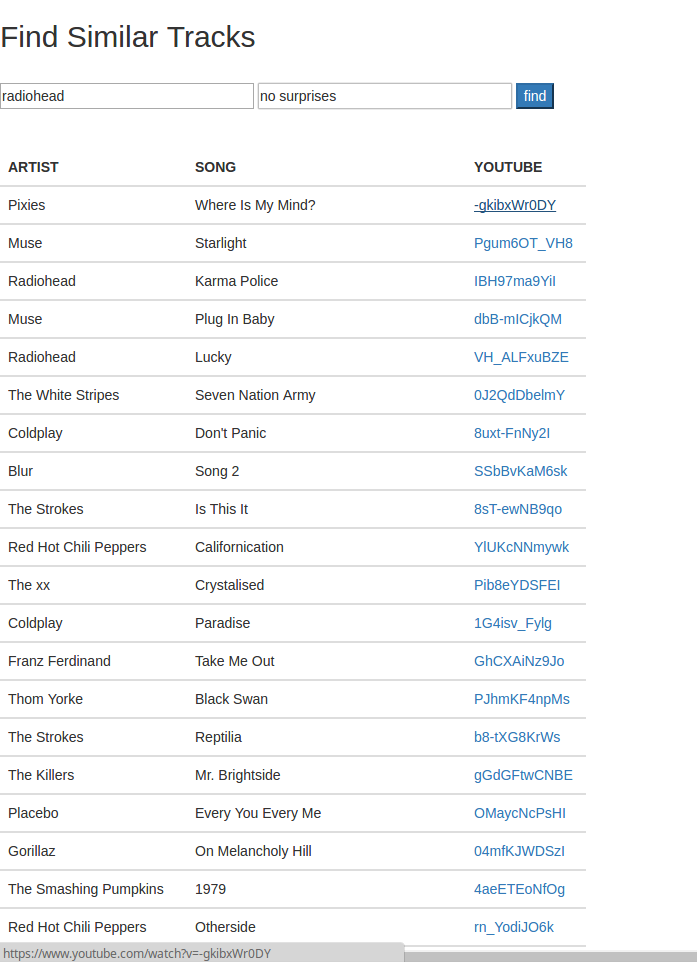
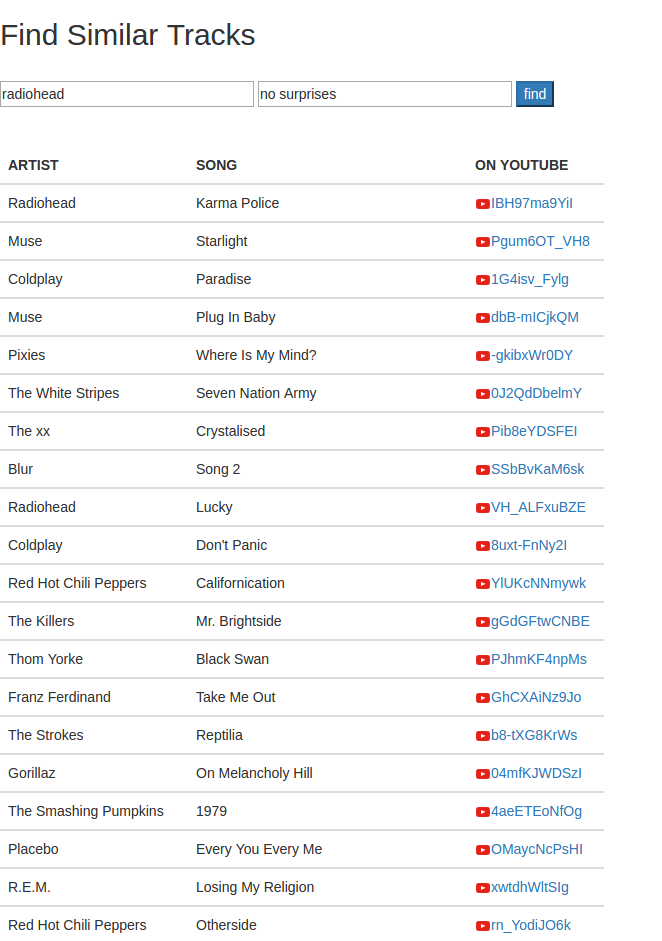
prettyfing youtube links

diff --git a/index.html b/index.html
@@ -25,13 +25,13 @@
                <tr>
                  <th>ARTIST</th>
                  <th>SONG</th>
-                 <th>YOUTUBE</th>
+                 <th>ON YOUTUBE</th>
                </tr>
              </thead>
              <tbody ng-repeat="track in trackList.tracks">
                  <td>{{track.artist}}</td>
                  <td>{{track.song}}</td>
-                 <td><a href='https://www.youtube.com/watch?v={{track.youtubeId}}'>{{track.youtubeId}}</a></td>
+                 <td><a target="_blank" href='https://www.youtube.com/watch?v={{track.youtubeId}}'><img src='https://s.ytimg.com/yts/img/favicon-vflz7uhzw.ico'>{{track.youtubeId}}</img></a></td>
              </tbody>
           </table>
          </div>
